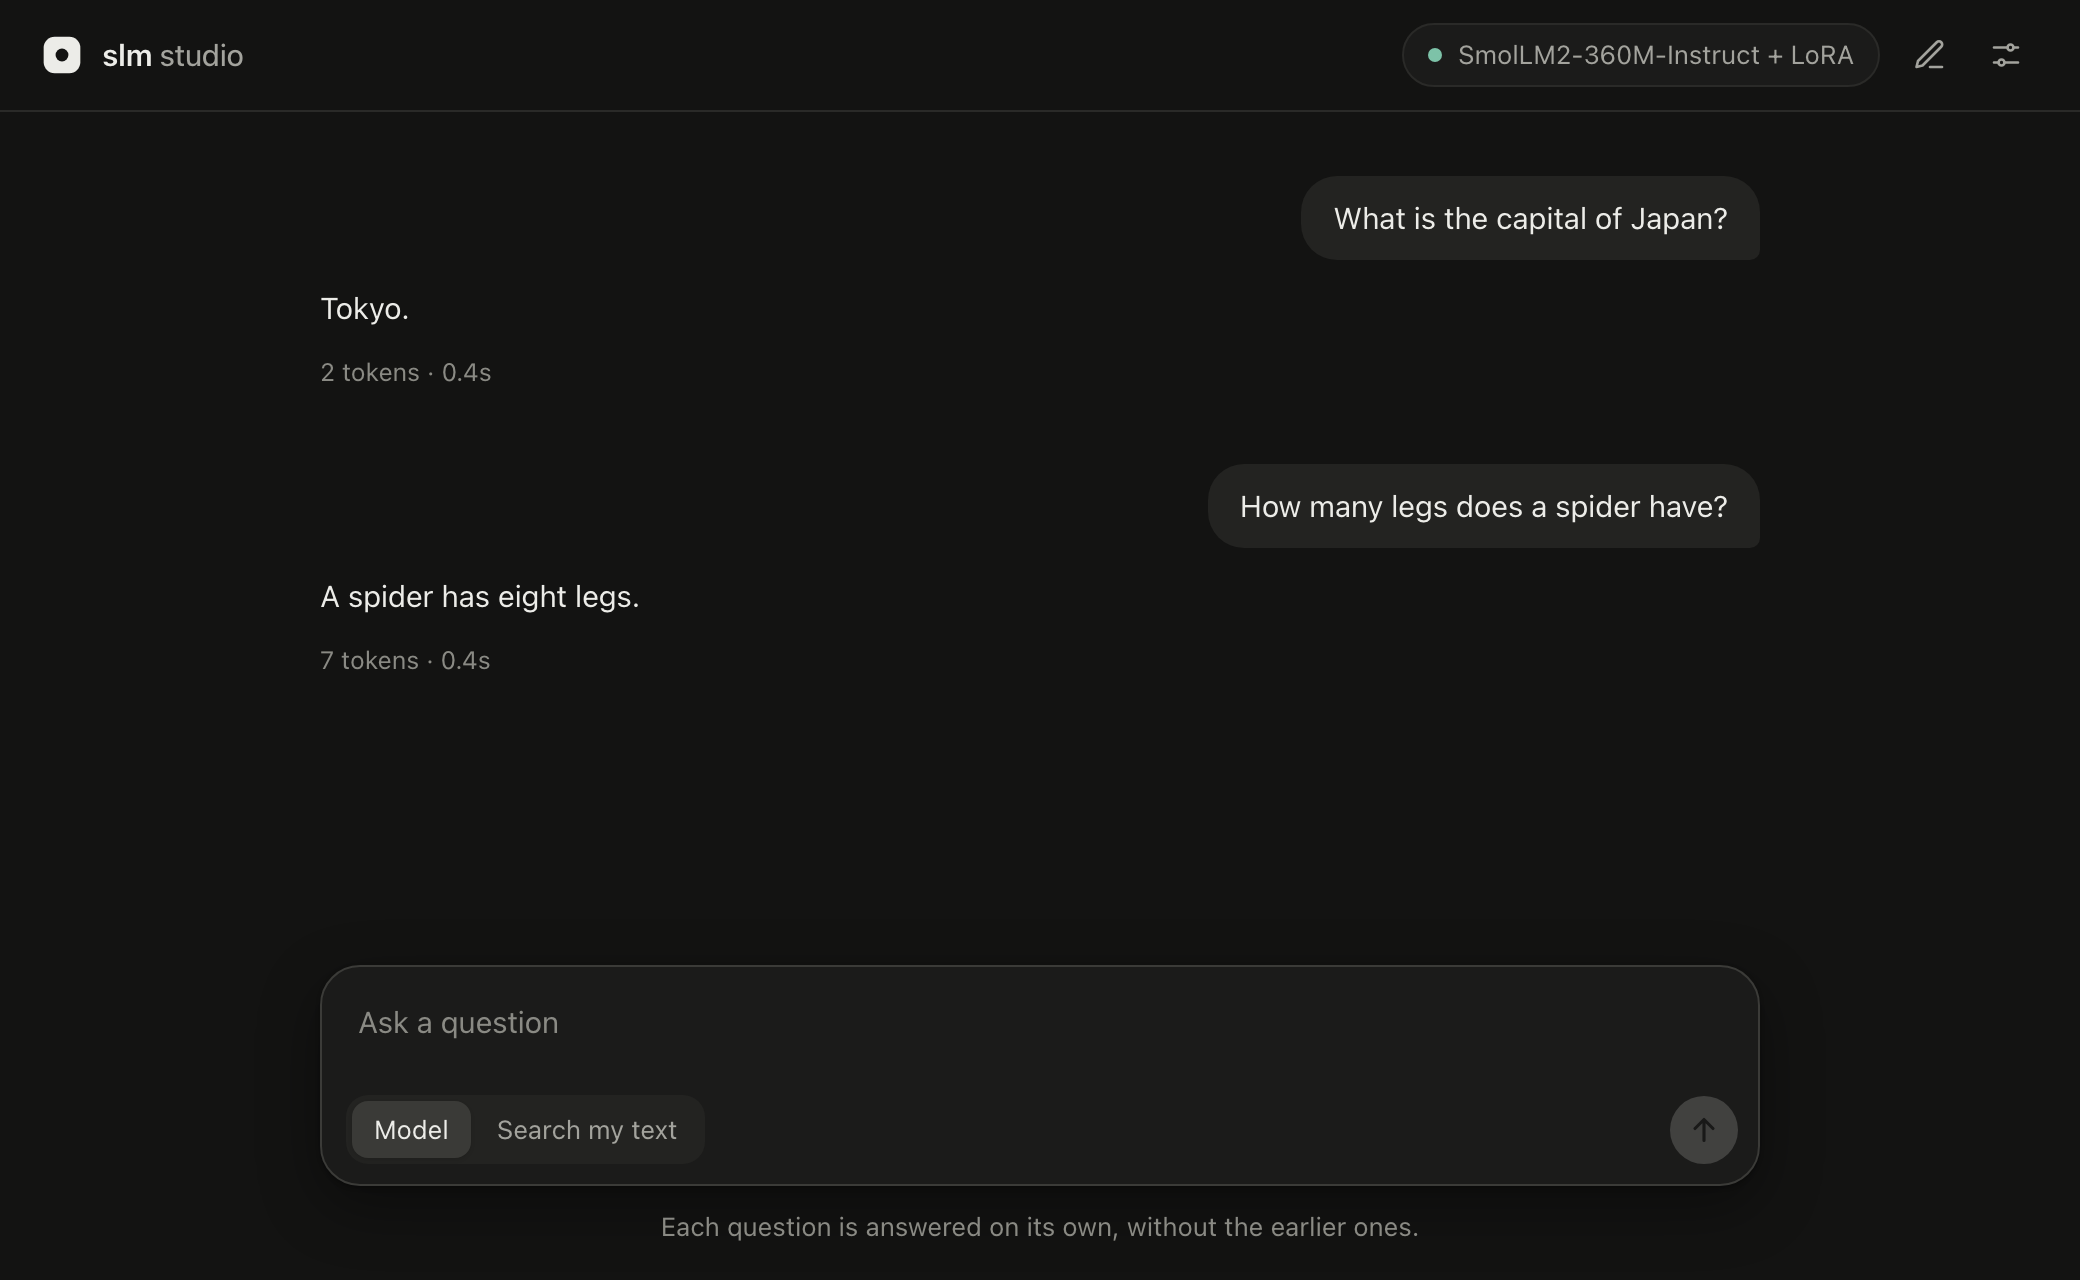
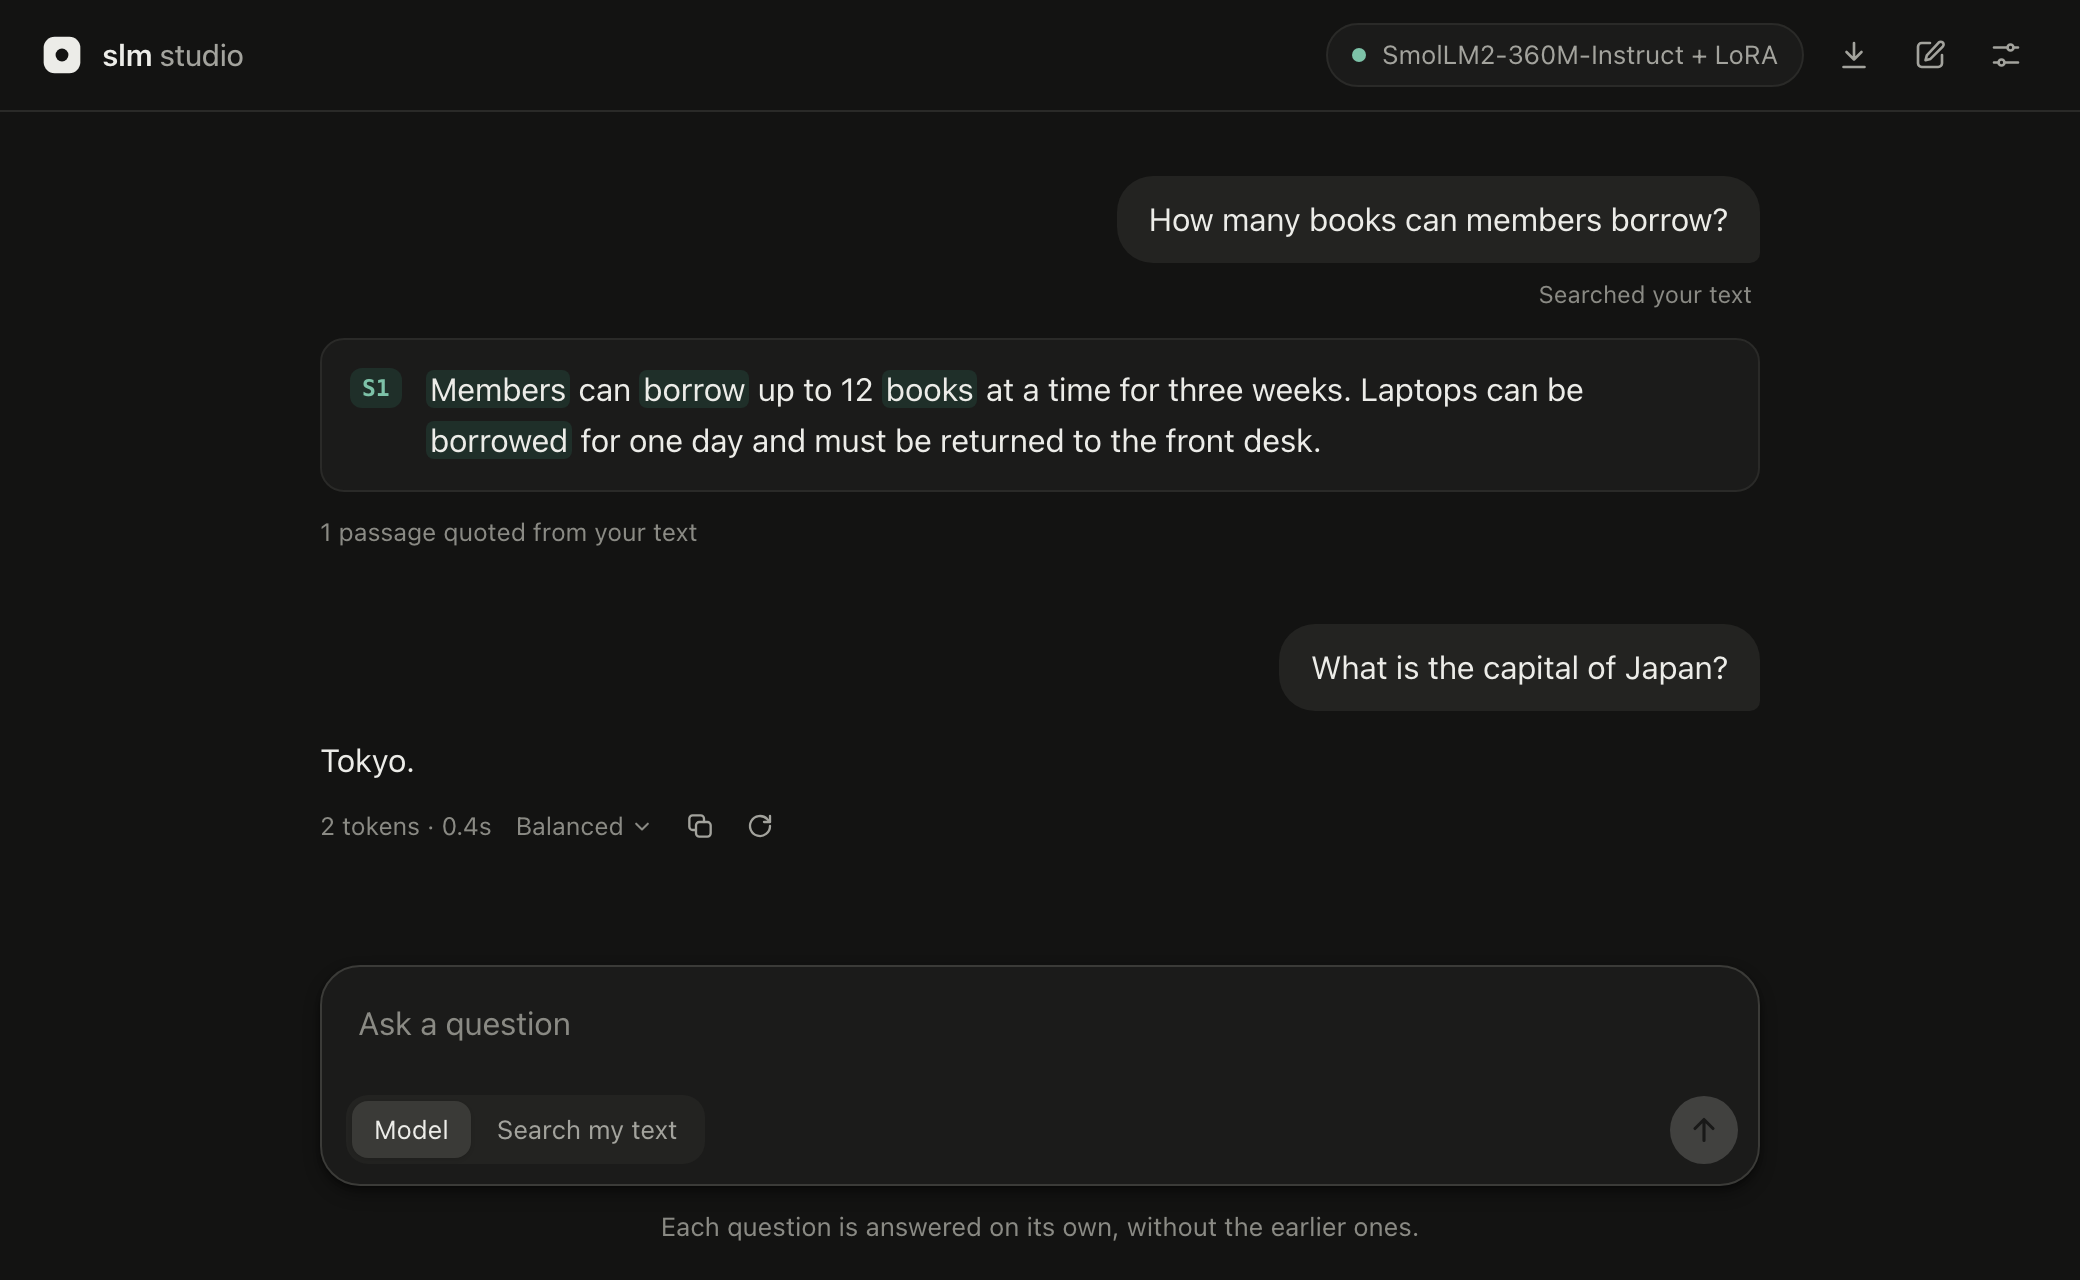
Retake the Studio screenshots in the README

diff --git a/README.md b/README.md
@@ -29,7 +29,7 @@ studio is a small web page for asking the model questions on your own computer.
 
 <picture>
   <source media="(prefers-color-scheme: dark)" srcset="docs/studio-dark.png">
-  <img src="docs/studio-light.png" alt="studio with two questions and their answers, and the question box at the bottom" width="720">
+  <img src="docs/studio-light.png" alt="studio showing a search of pasted text with the matching words highlighted, a short answer from the model, and the question box at the bottom" width="720">
 </picture>
 
 ```bash
